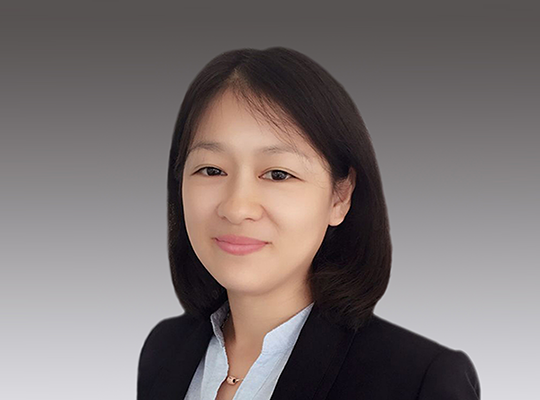
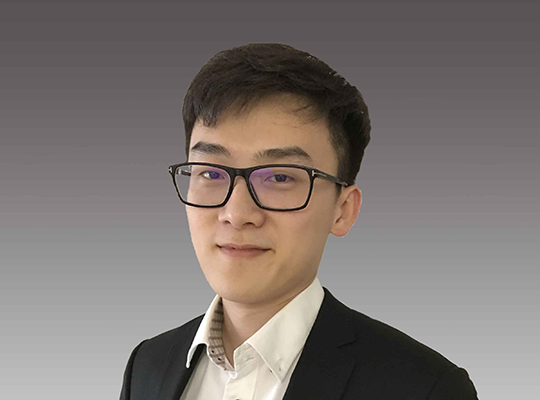
fix some problems
add team member
fix some problems
add 53kf service

diff --git a/app/team.html b/app/team.html
@@ -97,6 +97,8 @@
     </nav>
     <!-- /.navbar -->
 
+    <div class="visible-xs" style="height:80px;"></div>
+
     <div class="standout-section" style="background:url(images/teambg.jpg) no-repeat;background-size:100%;padding: 0;">
         <div class="container" style="text-align:center;">
             <br/>
@@ -116,7 +118,7 @@
                         <p><br/>十年留学咨询行业的沉淀，让我们更加懂得了珍惜，珍惜每一位同学和家长给予我们的期望与信任，珍惜每一份Offer收获的喜悦与艰辛。同时，珍惜赋予了我们更大的责任，10年来中美加国际的精益求精，逐渐磨炼出了一支卓越的精英顾问团队，他们毕业于海内外名校，他们留学行业经验丰富，他们深知Dream School录取对于每个同学和家庭的意义，这使得他们不断学习，不断的挖掘自己最大的潜力，成为了助力学生冲击名校的利器！2017年，我们坚信，在“珍惜”与“责任”的陪伴下，为同学、为家长、提供更加专业的服务，实现每个人的名校梦想！
                         </p>
                         <div style="float:right;margin-right:10px;vertical-align:center;">
-                           —— &nbsp;<img style="height:6%;" src="images/frank_signature.png"/><br/>
+                           —— &nbsp;<img style="height:40px;" src="images/frank_signature.png"/><br/>
                         </div>
                     </div>
                     <!-- /column -->
@@ -226,6 +228,24 @@
                         <div class="single-member effect-3">
                             <div class="member-image"><img src="images/team/team_11.png" alt="Member"></div>
                             <div class="member-info">
+                                <h3>王珏</h3><h5>留学申请顾问</h5>
+                                <p>海归硕士，从事留学咨询行业五年，主要负责北美及欧洲各顶级名校项目的研究及录取分析工作，为中美加后期申请团队提供专业保障。</p>
+                            </div>
+                        </div>
+                    </div>
+                    <div class="wrap-single-member col-md-4 col-sm-6 col-xs-12">
+                        <div class="single-member effect-3">
+                            <div class="member-image"><img src="images/team/team_12.png" alt="Member"></div>
+                            <div class="member-info">
+                                <h3>张毅</h3><h5>高级咨询顾问</h5>
+                                <p>海归硕士，从事留学咨询行业三年，对美国、英国等欧美国家的理工科相关专业有深入研究，曾帮助上百名学生申请到TOP 30名校。</p>
+                            </div>
+                        </div>
+                    </div>
+                    <div class="wrap-single-member col-md-4 col-sm-6 col-xs-12">
+                        <div class="single-member effect-3">
+                            <div class="member-image"><img src="images/team/team_13.png" alt="Member"></div>
+                            <div class="member-info">
                                 <h3>李京</h3><h5>行政主管</h5>
                                 <p>工作十余年一直秉承着为公司的顾问们提供最强有力的后勤保障和支持，提升团队效率和凝聚力。</p>
                             </div>
@@ -233,7 +253,7 @@
                     </div>
                     <div class="wrap-single-member col-md-4 col-sm-6 col-xs-12">
                         <div class="single-member effect-3">
-                            <div class="member-image"><img src="images/team/team_12.png" alt="Member"></div>
+                            <div class="member-image"><img src="images/team/team_14.png" alt="Member"></div>
                             <div class="member-info">
                                 <h3>谭泽伟</h3><h5>市场专员</h5>
                                 <p>毕业于211重点高校市场营销专业，负责中美加华北地区高校线上及线下推广工作。</p>

diff --git a/app/index.html b/app/index.html
@@ -121,7 +121,7 @@
         <!-- /二维码浮层-->
     </nav>
     <!--结束导航栏-->
-
+    <div class="visible-xs" style="height:80px;"></div>
     <div class="standout-section">
         <div class="container text-inverse">
             <div class="col-md-8 col-sm-12 col-xs-12 col-md-push-4">
@@ -130,7 +130,7 @@
                         <div class="tile-split-title">
                             <div class="tile-inner" style="float:left;">
                                 <img src="images/caclogo-full.png" alt="中美加国际" title="中美加国际" style="height:80%;">
-                                <p style="color:#c8c8c8;font-size:13px;padding-left:8%;">免费咨询电话：4006-100-288</p>
+                                <p style="color:#dddddd;font-size:16px;padding-left:5%;">免费咨询电话：4006-100-288</p>
                             </div>
                         </div>
 
@@ -461,6 +461,8 @@
 <script src="js/plugins.js"></script>
 <script src="js/scripts.js"></script>
 <script src="js/countUp.js"></script>
+<script type='text/javascript' src='http://chat.53kf.com/kf.php?arg=diycac&style=2'></script>
+
 <!--<script>-->
 <script type="text/javascript">
     //加载页面后的计数动画效果

diff --git a/app/css/custom.css b/app/css/custom.css
@@ -165,7 +165,7 @@ body,h1,h2,h3,h4,h5,h6{
 .float-box{
     border-radius: 7px;
     background:#51a5cf;
-    bottom: 60%;
+    bottom: 75%;
     font-size: 14px;
     color:#FFFFFF;
     width: 50px;
@@ -251,6 +251,8 @@ body,h1,h2,h3,h4,h5,h6{
 .plans-category-bar-xs{
     position: relative;
     top:-40px;
+    background: rgba(0, 0, 0, 0.3);
+    border-radius: 5px;
 }
 .plans-category-bar-xs .current{
     background-color: #51a5cf;
@@ -538,3 +540,19 @@ body,h1,h2,h3,h4,h5,h6{
     text-align: center;
     cursor:pointer;
 }
+
+/*对53kf客服系统样式进行修改*/
+/*屏蔽53kf的广告*/
+#iconDivMain1 div:nth-child(2),#mnkf_ad,#ad_html,#hz6d_iframe_logo {
+    display: none !important;
+}
+
+/*!*对话界面左浮动*!
+.mnkf_content_head{
+    float:left;
+}
+.mnkf_content_body{
+    float:left;
+}*/
+
+

diff --git a/app/plan_elite.html b/app/plan_elite.html
@@ -97,6 +97,8 @@
     </nav>
     <!-- /.navbar -->
 
+    <div class="visible-xs" style="height:80px;"></div>
+
     <div class="standout-section" style="background:url(images/careerbg.jpg) no-repeat;background-size:100%;padding-bottom: 0;">
         <div class="container" style="text-align:center;">
             <br/>

diff --git a/app/plan_insurance.html b/app/plan_insurance.html
@@ -97,6 +97,8 @@
     </nav>
     <!-- /.navbar -->
 
+    <div class="visible-xs" style="height:80px;"></div>
+
     <div class="standout-section" style="background:url(images/careerbg.jpg) no-repeat;background-size:100%;padding-bottom: 0;">
         <div class="container" style="text-align:center;">
             <br/>

diff --git a/app/plan_more.html b/app/plan_more.html
@@ -97,6 +97,8 @@
     </nav>
     <!-- /.navbar -->
 
+    <div class="visible-xs" style="height:80px;"></div>
+
     <div class="standout-section" style="background:url(images/careerbg.jpg) no-repeat;background-size:100%;padding-bottom: 0;">
         <div class="container" style="text-align:center;">
             <br/>

diff --git a/app/plan_vip.html b/app/plan_vip.html
@@ -97,6 +97,8 @@
     </nav>
     <!-- /.navbar -->
 
+    <div class="visible-xs" style="height:80px;"></div>
+
     <div class="standout-section" style="background:url(images/careerbg.jpg) no-repeat;background-size:100%;padding-bottom: 0;">
         <div class="container" style="text-align:center;">
             <br/>
